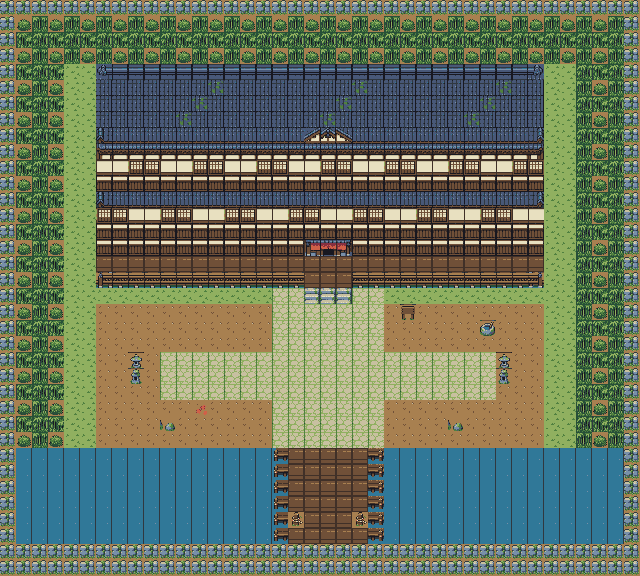
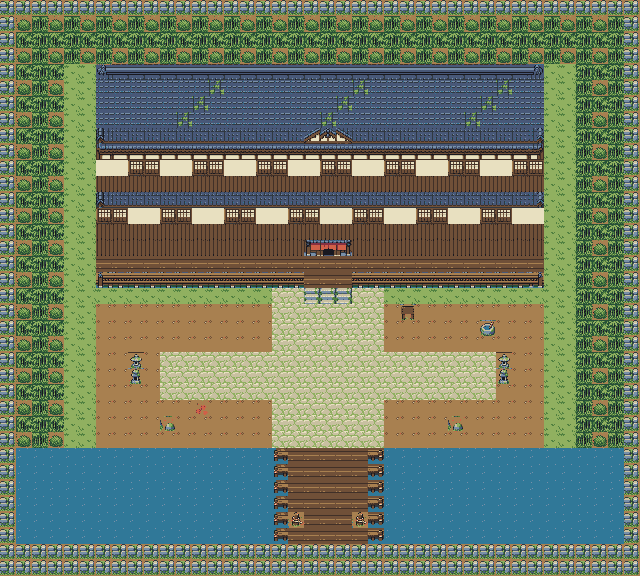
旅館外観の格子状の継ぎ目を修正

Changed region(s): [[0.0, 0.0, 1.0, 1.0], [0.1875, 0.625, 0.2188, 0.6875]]

diff --git a/tools/restoration_inn/test_maps.py b/tools/restoration_inn/test_maps.py
@@ -3,10 +3,35 @@ import json
 from pathlib import Path
 import struct
 import unittest
+import zlib
 
 import build_maps as inn
 
 ROOT = inn.ROOT
+
+
+def read_material_atlas():
+    """Read the indexed, unfiltered PNG produced by assets.mjs (not a general PNG decoder)."""
+    raw = (ROOT/'graphics/custom/restoration_inn/exterior_metatiles.png').read_bytes()
+    width, height = struct.unpack('>II', raw[16:24])
+    palette = []
+    compressed = bytearray()
+    position = 8
+    while position < len(raw):
+        size = struct.unpack_from('>I', raw, position)[0]
+        kind = raw[position+4:position+8]
+        payload = raw[position+8:position+8+size]
+        if kind == b'PLTE':
+            palette = list(zip(*[iter(payload)]*3))
+        elif kind == b'IDAT':
+            compressed.extend(payload)
+        position += size + 12
+    pixels = zlib.decompress(compressed)
+    stride = width//2 + 1
+    assert len(pixels) == stride*height
+    assert all(pixels[y*stride] == 0 for y in range(height))
+    return [[palette[(pixels[y*stride+1+x//2] >> (0 if x%2 else 4)) & 15]
+             for x in range(width)] for y in range(height)]
 
 
 class InnMapTest(unittest.TestCase):
@@ -69,6 +94,17 @@ class InnMapTest(unittest.TestCase):
                 matches = [v for i,v in enumerate(target['warp_events'])
                            if v.get('warp_id',str(i))==w['dest_warp_id']]
                 self.assertEqual(len(matches),1,w)
+
+    def test_repeating_exterior_materials_have_no_dark_atlas_border(self):
+        atlas = read_material_atlas()
+        for tile in (0, 2, 3, 4, 6, 14, 24, 28):
+            x, y = tile%8*16, tile//8*16
+            material = [[sum(c*w for c,w in zip(atlas[y+dy][x+dx],(0.3,0.6,0.1)))
+                         for dx in range(16)] for dy in range(16)]
+            center = sum(material[j][i] for j in range(2,14) for i in range(2,14))/144
+            edges = [material[0], material[-1], [r[0] for r in material], [r[-1] for r in material]]
+            for edge in edges:
+                self.assertGreaterEqual(sum(edge)/16, center-24, f'Framed repeat tile {tile}')
 
     def test_every_walkable_tile_is_reachable_from_an_entrance(self):
         for n, g in self.grid.items():

diff --git a/tools/restoration_inn/PROMPTS.md b/tools/restoration_inn/PROMPTS.md
@@ -51,3 +51,23 @@ shoe cabinets and a tokonoma alcove. Eight cells per row:
 The generated atlas is an art source, not a valid GBA binary by itself. The
 checked-in asset pipeline normalizes selected cells, limits palettes, composes
 opaque floor/wall backgrounds and creates the actual 8x8/16x16 production data.
+
+## Exterior Seam Repair (2026-10-26)
+
+Built-in image editing tool. Edit target: `source/exterior_generated.png`.
+Supporting reference: `RestorationInn_Outside.png` before the repair, used only
+to identify the unwanted square seams. Adopted output:
+`source/exterior_seamless_generated.png`. Exact prompt:
+
+```text
+Edit image 1, an existing 8 by 8 tile atlas for a Japanese ryokan in a Pokemon Emerald Generation III overworld. Image 2 is the current assembled map and is ONLY evidence of the unwanted square seams; do not return a map. Return only a replacement atlas with EXACTLY the same 8x8 arrangement and identical cell meanings/positions as image 1. Keep the old timber ryokan, grey-blue tiled roofs, faded red noren, bamboo, lanterns and dock. Keep a restrained GBA pixel-art look: crisp square pixels, flat colors, no antialiasing, no gradients, no realistic texture.
+
+CRITICAL REPAIR: the original atlas contains thin dark or brown separator lines at the edges of the cells. Completely remove ALL atlas separator/grid lines. There must be NO presentation grid, gutter, border, outlines around individual floor tiles, or boxed swatches. The entire canvas is occupied by art to its edges. Every repeating material cell must be a seamless texture, not an outlined square.
+
+First row meanings stay: short grass, darker grass, irregular small stone path with sparse moss, dirt, wood deck planks, stone edge, light teal water, dark teal water. Short grass, stone path, dirt, wood planks and water must be repeatable in BOTH directions with NO dark pixel edge or artificial border on any side. Stone path should have small irregular stones, not a big square slab, with edges that do not form a 16-pixel lattice. Water waves must cross tile boundaries naturally. Wood planks should have horizontal grain with staggered joints, not a square frame or vertical edge at every metatile.
+
+Roof cells must join smoothly into one roof. Keep real small curved roof-tile lines, but remove straight black square frames at the 16-pixel atlas cell edges. The plain repeating roof surface (row 2, column 7, counting from 1) must repeat smoothly across both axes; mossy variant (row 2, column 8) shares the same edge pixels.
+Plain plaster wall (row 4, column 1) must not have a dark vertical border or bottom frame: the separate timber-post cell provides the posts. The lower wooden wall / wainscot cells (row 4, column 5 and row 5, columns 4 and 5) must be continuous vertical wood slats without a rectangular frame at every cell. Keep genuine window frames, doorway geometry, noren and deliberate corner/endcaps.
+
+All other 64 cell subjects and their locations must be preserved. Do not introduce new objects, people, Pokemon, letters, grid lines, labels, shadows outside each object, or text. This is production tile art, not a contact sheet. Simplify tiny detail rather than add noise. Match the original colors closely.
+```

diff --git a/tools/restoration_inn/README.md b/tools/restoration_inn/README.md
@@ -35,6 +35,14 @@ The original images were created with the built-in image generation tool;
 samples those images, quantizes to fixed palettes, deduplicates 8x8 tiles and
 builds the metatiles. This is not an extraction of commercial game tiles.
 
+The exterior now uses `source/exterior_seamless_generated.png`. The first
+`exterior_generated.png` is retained for comparison only. Repeat materials are
+sampled inside their swatches, excluding atlas dividers, wall frames and roof
+endcaps. Do not restore full-cell sampling for these materials: it introduces
+dark straight lines at every 16-pixel boundary. The regression test checks the
+edge luminance of these repeats. Geometry, collision and warp data are unchanged
+by this artwork correction.
+
 ### Local Metatile IDs
 
 Exterior rows of eight: 0-7 ground/water; 8-15 roof; 16-23 eaves/gable;
